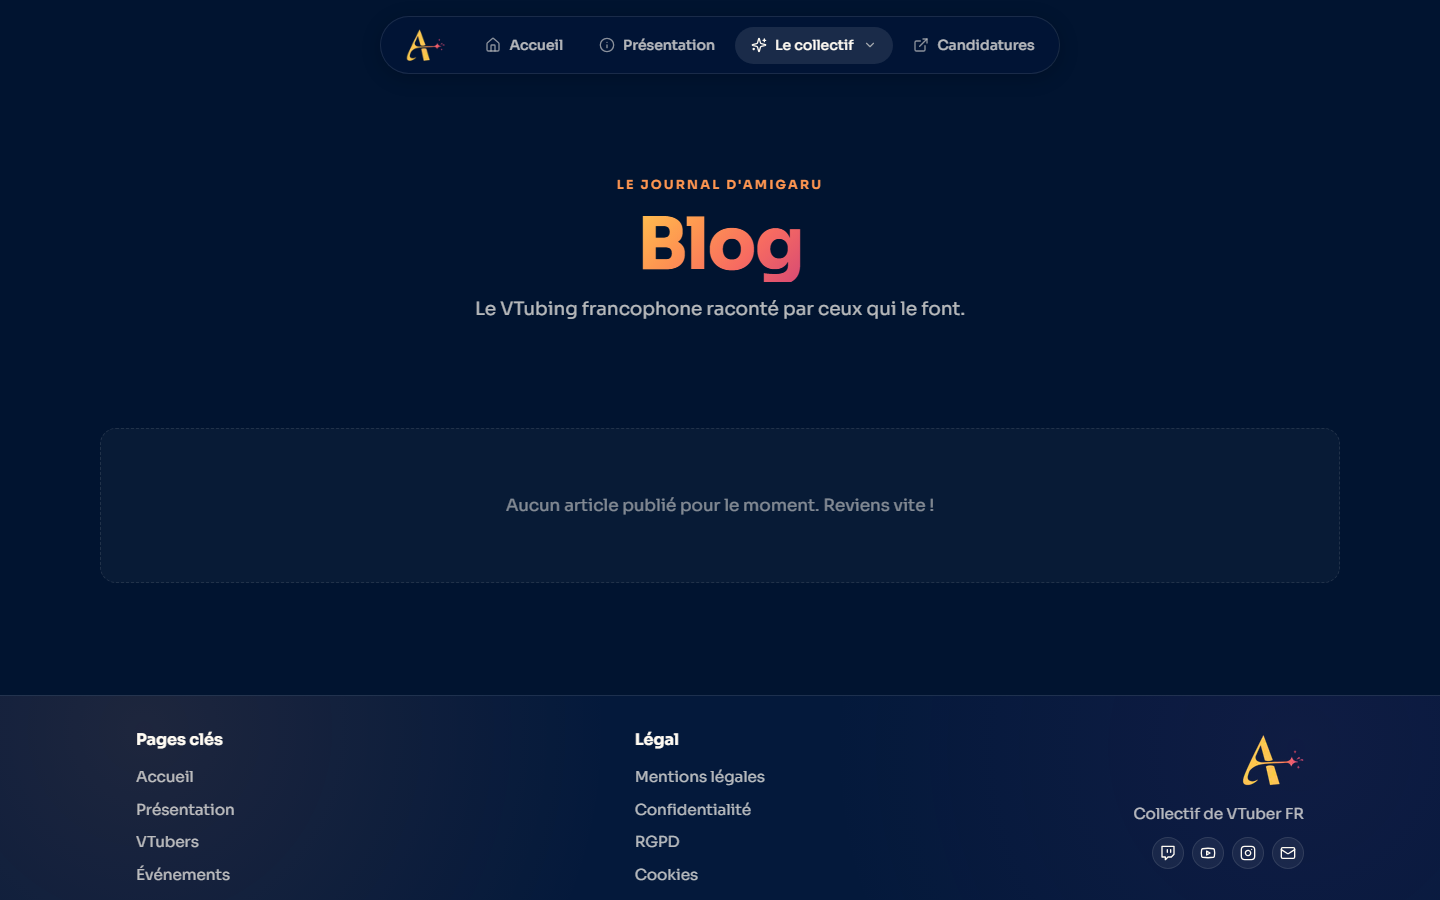
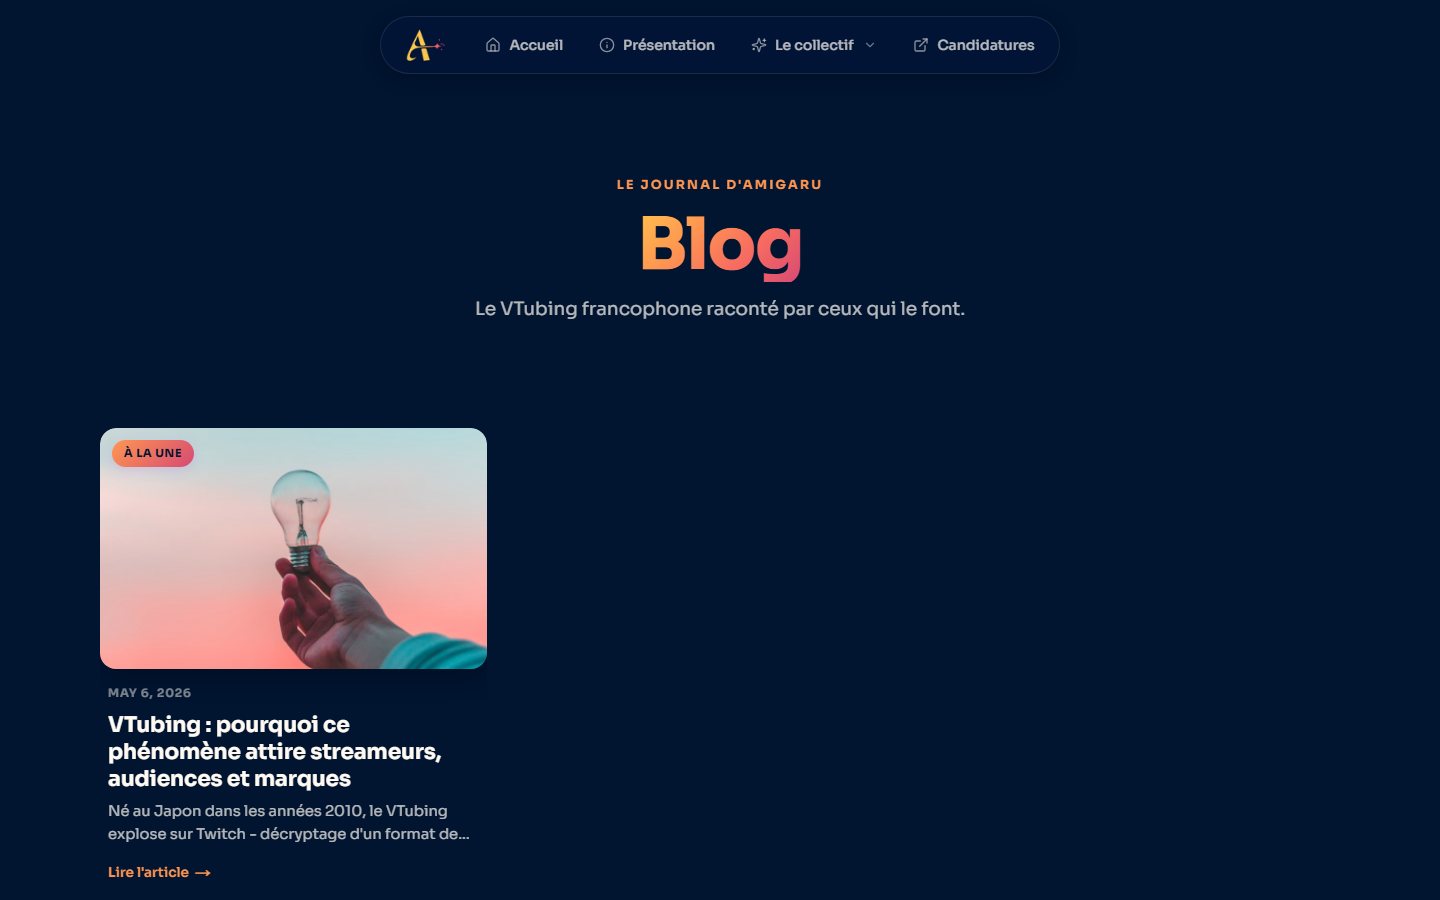
feat(amigaru): fresh live captures (home, directory, studi00s, blog, about, admin), drop join shot

diff --git a/frontend/src/data/projects.ts b/frontend/src/data/projects.ts
@@ -156,8 +156,10 @@ status: "wip",
     ],
     screenshots: [
       "/images/amigaru/web-home.png",
+      "/images/amigaru/web-directory.png",
+      "/images/amigaru/web-studi00s.png",
       "/images/amigaru/web-blog.png",
-      "/images/amigaru/web-join.png",
+      "/images/amigaru/web-about.png",
       "/images/amigaru/admin-login.png",
     ],
     sitemap: [
